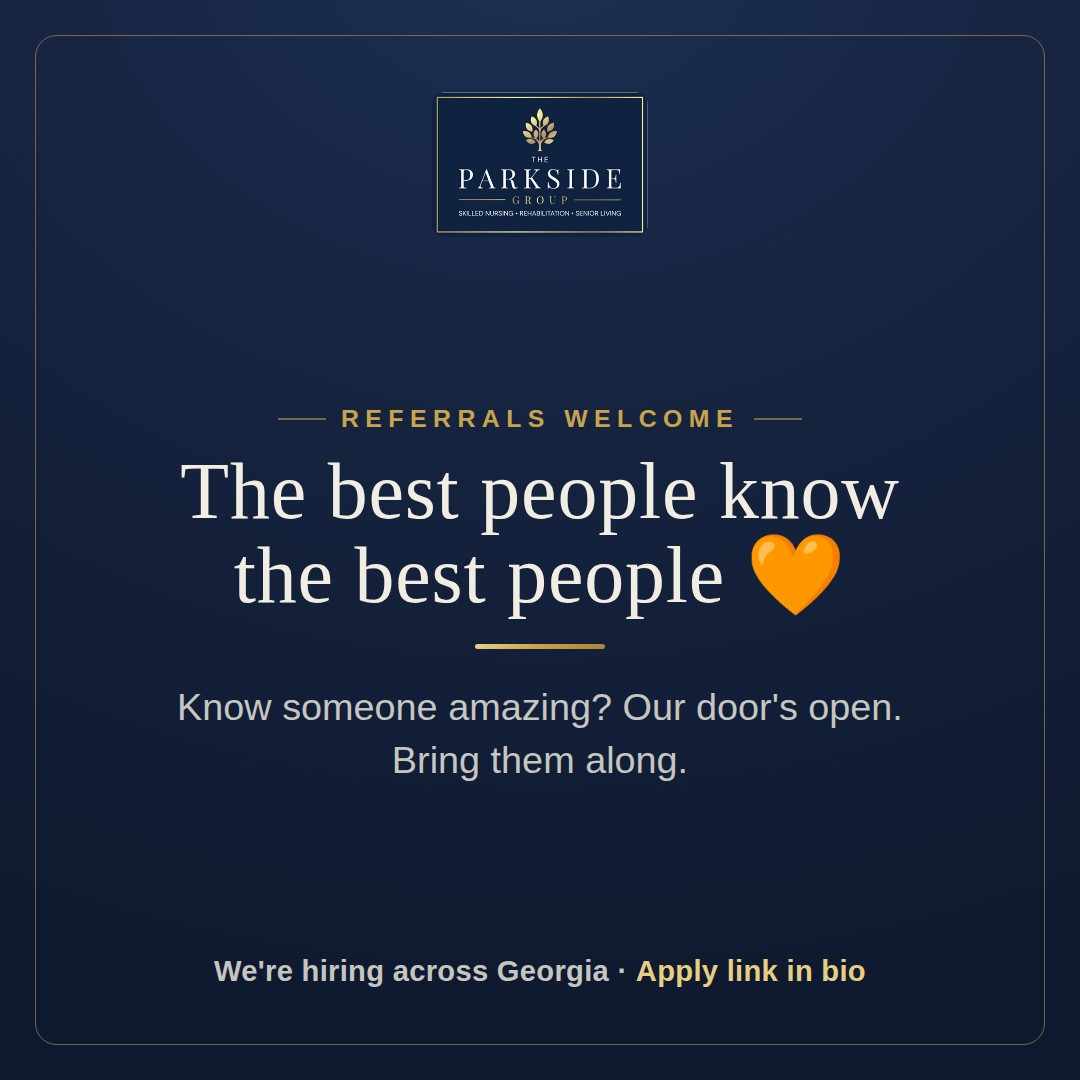
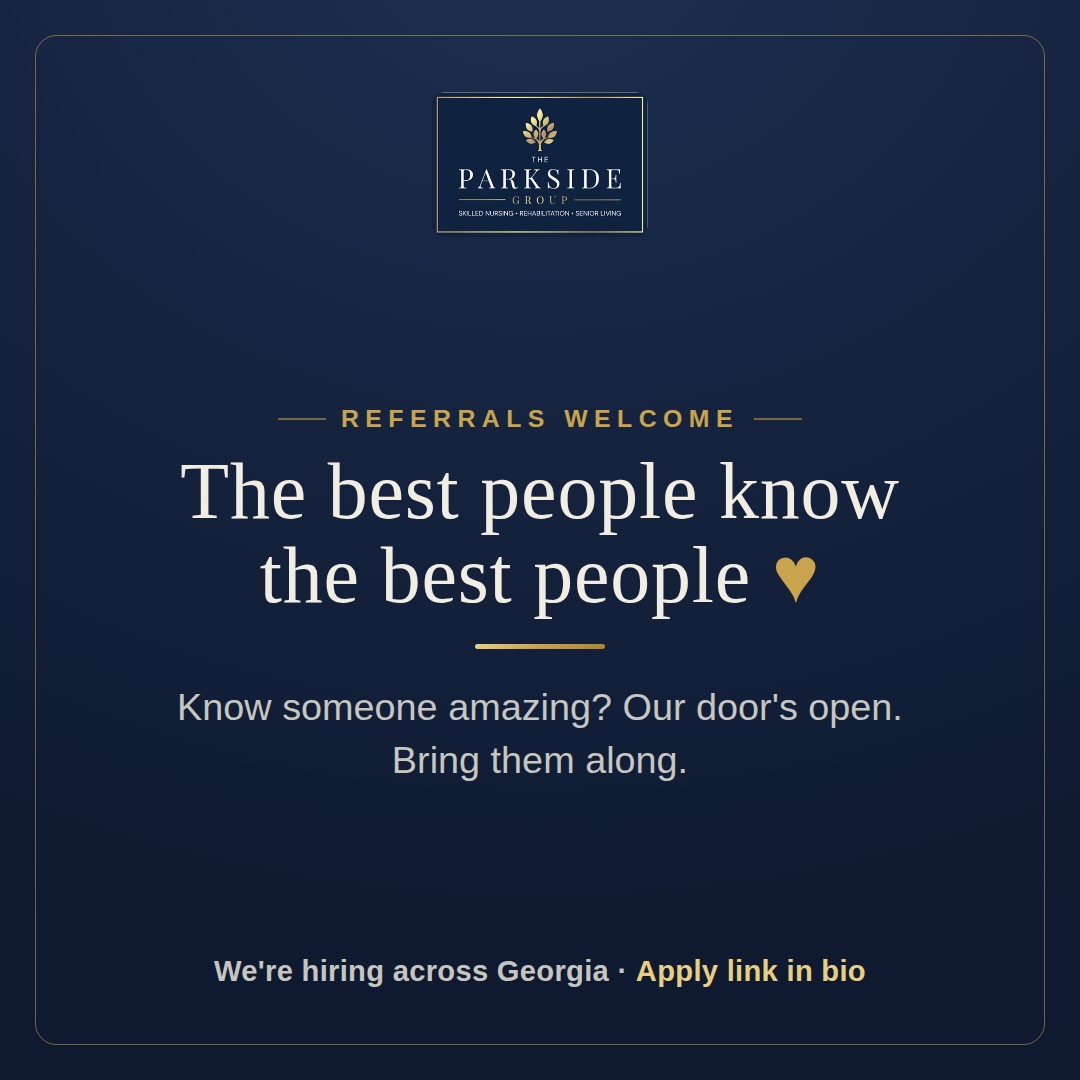
Bring a Friend post: gold heart instead of orange
Match the brand gold (#C9A44C) in the graphic; use yellow heart in the
caption text (closest to brand gold available as an emoji).

Claude-Session: https://claude.ai/code/session_01AFyvnUfvx4Uv9UtHpjxiVo

Changed region(s): [[0.2139, 0.4889, 0.7944, 0.5806]]

diff --git a/ga-hiring-ads/captions.md b/ga-hiring-ads/captions.md
@@ -217,7 +217,7 @@ Tag a caregiver who deserves to hear it today 👇
 ## D. Bring a Friend / Referral (`culture/bring-a-friend.png` / `bring-a-friend.jpg`)
 
 **Instagram / LinkedIn**
-The best people know the best people. 🧡
+The best people know the best people. 💛
 
 Know someone amazing? Our door's open, bring them along. We're hiring across Georgia, and some of our best team members came to us because a friend said "you'd love it here."
 
